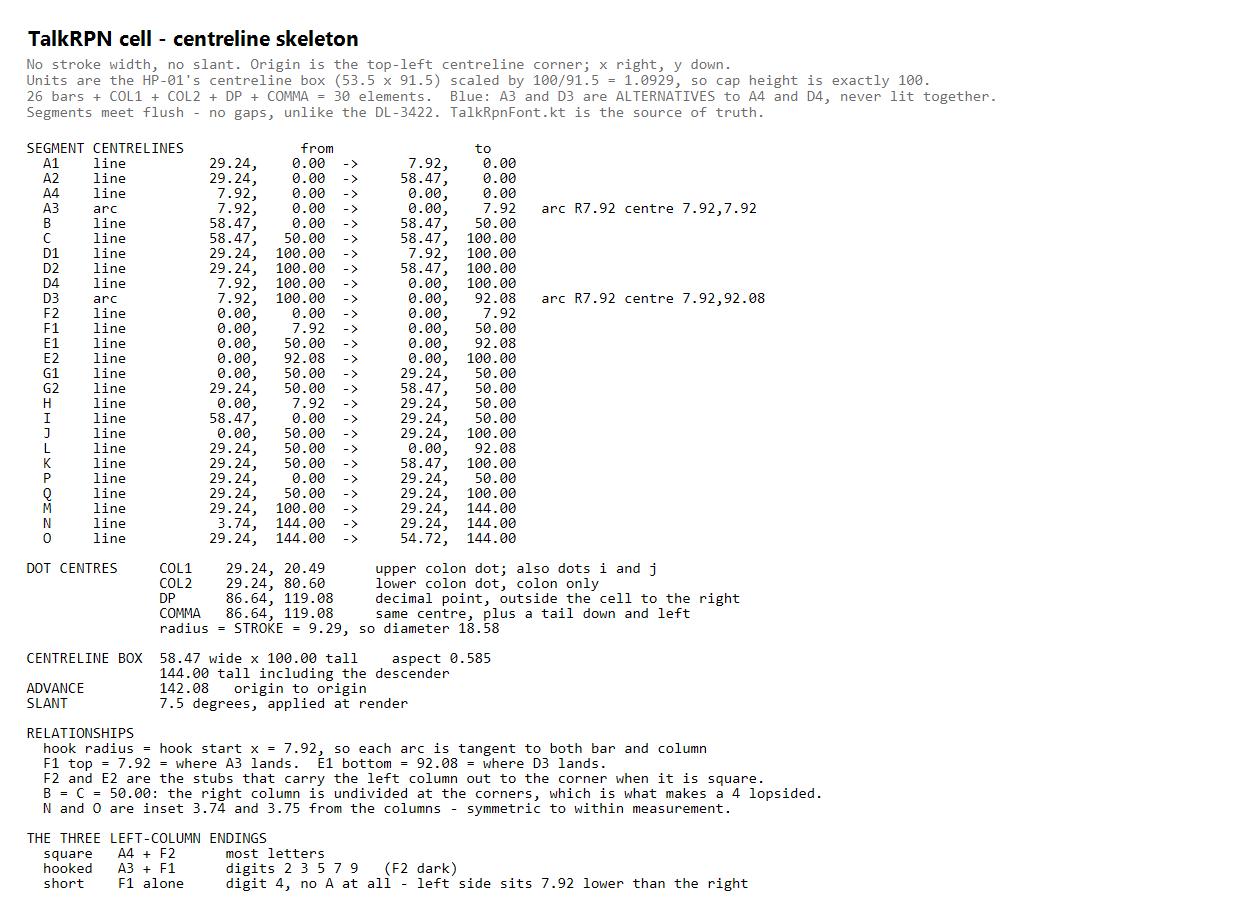
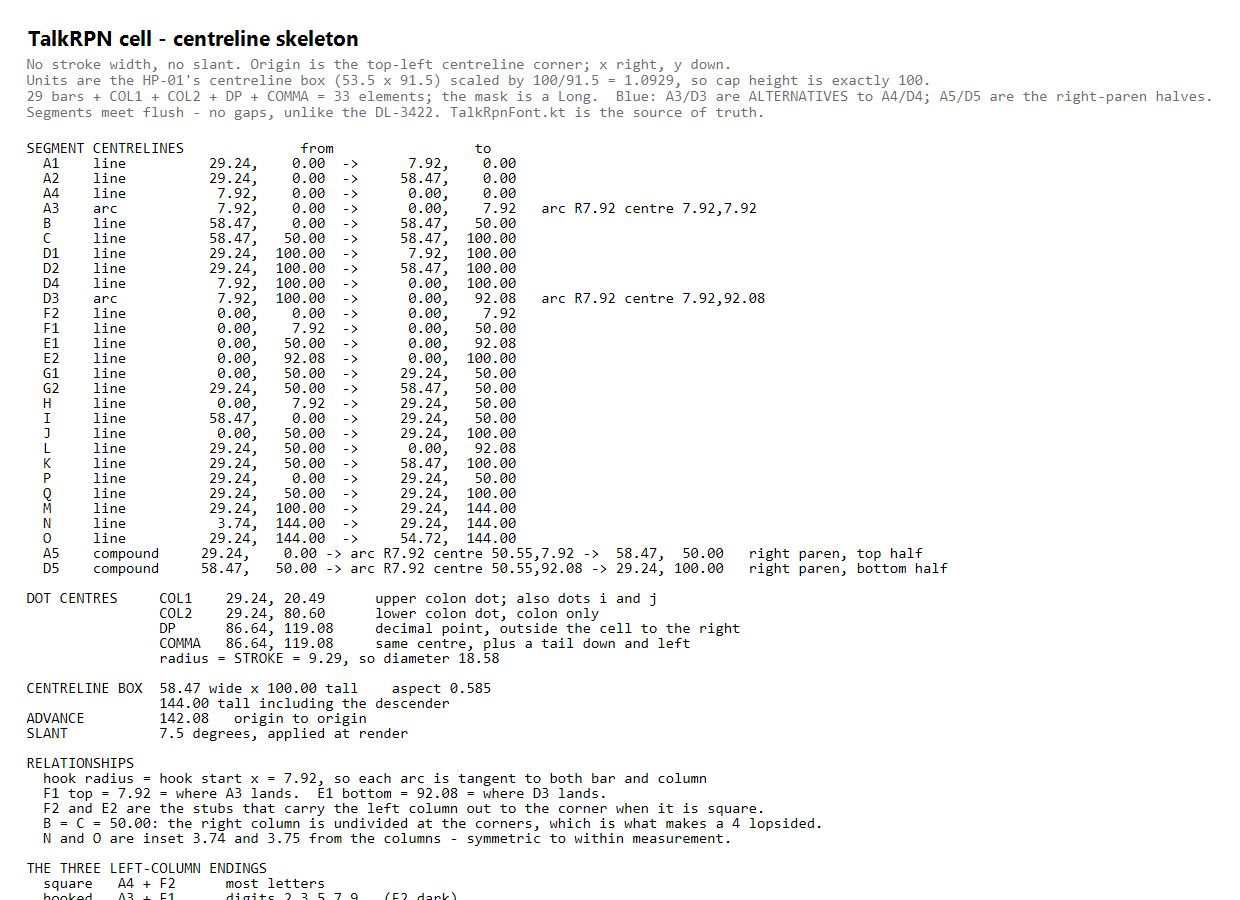
Curved parentheses on both sides, and the mask becomes a Long
The rounded '(' looked right and the square ')' next to it looked broken, so
the pair either both curved or neither. Both, then: '(' is the left column
with both corners hooked, and ')' gets A5 and D5 - each half of the right
parenthesis bundled into one element, bar stub plus corner arc plus column
stub, because the right side has no shortened bars or columns for a bare arc
to join. Splitting A2, B, C and D2 properly would have cost six elements;
bundling costs two, and loses nothing while ')' is their only user.

That makes 33 elements, so the mask crosses from Int to Long. Deliberate: the
rule stands that new elements are bought for legibility failures only, and a
mismatched pair of parens is a legibility failure.

The character sheet in the reference PDF is now ONE landscape page, 16 glyphs
per row in code-point order 0x20-0x7E - the traditional ASCII chart layout -
in place of the old two portrait pages of nine per row.

Also clarify the descender note in DESIGN.md: it is segment M that is too
tall, not the letter M. It drops 44 units against a 50-unit x-height, so
g q y j plunge nearly as deep as their bowls are tall.

Comma taper: decided, keep the constant-width tail. More period-correct,
though the real LED calculators drew no commas at all.

The PDF mirror script also gets rewritten whole rather than patched: the
semicolon edits had silently vanished from it - Google Drive sync appears to
have reverted the file - so patching on top of an unverified base was no
[…]

diff --git a/app/src/main/java/com/nerdfever/talkrpn/TalkRpnFont.kt b/app/src/main/java/com/nerdfever/talkrpn/TalkRpnFont.kt
@@ -1,4 +1,4 @@
-package com.nerdfever.talkrpn
+package com.nerdfever.talkrpn
 
 import androidx.compose.ui.geometry.Offset
 import androidx.compose.ui.graphics.Color
@@ -131,6 +131,15 @@ object TalkRpnFont {
     /** Where each horizontal bar's straight run ends and its hook begins. */
     private const val X_HOOK_START = HOOK_R            // 7.92
 
+    /** The mirror point on the right, where the parenthesis arcs turn. */
+    private const val X_HOOK_END_R = CELL_WIDTH - HOOK_R   // 50.55
+
+    /**
+     * Control-point offset for a quarter-circle as one cubic Bezier:
+     * (4/3)tan(pi/8) x radius. Exact to within 0.02%.
+     */
+    private val HOOK_K = (4.0 / 3.0 * tan(Math.PI / 8.0)).toFloat() * HOOK_R
+
     /** The descender bar is inset from the columns, symmetrically. */
     private const val X_N_LEFT = 3.74f
     private const val X_O_RIGHT = 54.72f
@@ -173,14 +182,21 @@ object TalkRpnFont {
     // ---- Segment identity ---------------------------------------------------
 
     /**
-     * 31 elements, so the mask needs 31 bits. An Int has 32, which still fits -
-     * but there is room for exactly one more, so nothing else may be packed in
-     * and any further addition needs a Long.
+     * 33 elements, so the mask is a Long. It was an Int until the parentheses:
+     * A5 and D5 were elements 32 and 33, and crossing that line was a deliberate
+     * decision (see DESIGN.md), not drift.
+     *
+     * A5 and D5 are the right-hand parenthesis halves. Each bundles a bar stub,
+     * the corner arc and a column stub into ONE element, because the right side
+     * has no shortened bars or columns for a bare arc to join - A2, B, C and D2
+     * all run square into the corner. Splitting them properly would cost six
+     * elements; bundling costs two, and loses nothing while ')' is the only
+     * user.
      */
     enum class Seg {
-        A1, A2, A3, A4,
+        A1, A2, A3, A4, A5,
         B, C,
-        D1, D2, D3, D4,
+        D1, D2, D3, D4, D5,
         E1, E2, F1, F2,
         G1, G2,
         H, I, J, K, L,
@@ -188,11 +204,11 @@ object TalkRpnFont {
         P, Q,
         COL1, COL2, COL2_TAIL, DP, COMMA;
 
-        val bit: Int get() = 1 shl ordinal
+        val bit: Long get() = 1L shl ordinal
     }
 
     /** Every segment lit - the display self-test, and what to draw to check geometry. */
-    val ALL_SEGMENTS: Int = Seg.entries.fold(0) { acc, s -> acc or s.bit }
+    val ALL_SEGMENTS: Long = Seg.entries.fold(0L) { acc, s -> acc or s.bit }
 
     /**
      * The cell's own boundary, for diagnosing layout.
@@ -322,6 +338,30 @@ object TalkRpnFont {
         Seg.P to line(X_MID, Y_TOP, X_MID, Y_MID),
         Seg.Q to line(X_MID, Y_MID, X_MID, Y_BASE),
 
+        // The right-hand parenthesis halves: bar stub from the centre, corner
+        // arc, column stub to the middle. One continuous figure each, so the
+        // curve joins its straights without seams.
+        Seg.A5 to path {
+            moveToCell(X_MID, Y_TOP)
+            lineToCell(X_HOOK_END_R, Y_TOP)
+            cubicToCell(
+                X_HOOK_END_R + HOOK_K, Y_TOP,
+                X_RIGHT, Y_F_TOP - HOOK_K,
+                X_RIGHT, Y_F_TOP
+            )
+            lineToCell(X_RIGHT, Y_MID)
+        },
+        Seg.D5 to path {
+            moveToCell(X_RIGHT, Y_MID)
+            lineToCell(X_RIGHT, Y_E_BOTTOM)
+            cubicToCell(
+                X_RIGHT, Y_E_BOTTOM + HOOK_K,
+                X_HOOK_END_R + HOOK_K, Y_BASE,
+                X_HOOK_END_R, Y_BASE
+            )
+            lineToCell(X_MID, Y_BASE)
+        },
+
         // The semicolon's tail.
         //
         // A semicolon is a colon whose lower dot grew a tail, so that is exactly
@@ -375,13 +415,13 @@ object TalkRpnFont {
      * TOTAL_HEIGHT - CELL_HEIGHT below it for the descender.
      */
     fun DrawScope.drawTalkRpnCell(
-        mask: Int,
+        mask: Long,
         origin: Offset,
         cellHeight: Float,
         color: Color,
         strokeWidth: Float = STROKE
     ) {
-        if (mask == 0) return
+        if (mask == 0L) return
 
         val scale = cellHeight / CELL_HEIGHT
 
@@ -401,12 +441,12 @@ object TalkRpnFont {
             val lit = Path()
 
             for ((seg, p) in PATHS) {
-                if (mask and seg.bit == 0) continue
+                if (mask and seg.bit == 0L) continue
                 lit.addPath(p)
             }
 
             // The comma's tail is a bar like any other, so it joins the union.
-            if (mask and Seg.COMMA.bit != 0) lit.addPath(COMMA_TAIL)
+            if (mask and Seg.COMMA.bit != 0L) lit.addPath(COMMA_TAIL)
 
             if (!lit.isEmpty) {
 
@@ -418,9 +458,10 @@ object TalkRpnFont {
             // Dots are filled, not stroked, and never overlap a bar, so they are
             // safe to draw separately.
             for ((seg, centre) in DOT_CENTRES) {
-                if (mask and seg.bit == 0) continue
+                if (mask and seg.bit == 0L) continue
                 drawCircle(color, strokeWidth, centre)
             }
         }
     }
 }
+

diff --git a/app/src/main/java/com/nerdfever/talkrpn/TalkRpnGlyphs.kt b/app/src/main/java/com/nerdfever/talkrpn/TalkRpnGlyphs.kt
@@ -1,4 +1,4 @@
-package com.nerdfever.talkrpn
+package com.nerdfever.talkrpn
 
 import com.nerdfever.talkrpn.TalkRpnFont.Seg
 
@@ -38,7 +38,7 @@ object TalkRpnGlyphs {
 
     // ---- Combinations, so the table below reads as shapes not bit soup -----
 
-    private fun m(vararg s: Seg) = s.fold(0) { acc, seg -> acc or seg.bit }
+    private fun m(vararg s: Seg) = s.fold(0L) { acc, seg -> acc or seg.bit }
 
     // Dave's shorthand when dictating corrections, and what it means here:
     //
@@ -86,9 +86,9 @@ object TalkRpnGlyphs {
 
     // ---- The table ----------------------------------------------------------
 
-    private val GLYPHS: Map<Char, Int> = mapOf(
+    private val GLYPHS: Map<Char, Long> = mapOf(
 
-        ' ' to 0,
+        ' ' to 0L,
 
         // ---- Digits ---------------------------------------------------------
         //
@@ -260,17 +260,16 @@ object TalkRpnGlyphs {
         // Two upper verticals of equal length: F and P.
         '"' to (UL or m(Seg.P)),
 
-        // Parentheses: the centre column with bars pointing the way the paren
-        // opens. Brackets take the outer columns.
+        // Parentheses, both properly curved - the pair that pushed the mask
+        // past an Int.
         //
-        // A rounded '(' was tried and reverted. Hooking both its corners did
-        // distinguish it from '[' - round against square, the real typographic
-        // difference - but there is no hook on the right, so ')' could not
-        // mirror it, and a mismatched pair looks far worse than a pair that
-        // merely resembles brackets. Making the right corners roundable is not a
-        // small change either: see the note in DESIGN.md.
-        '(' to m(Seg.A2, Seg.P, Seg.Q, Seg.D2),
-        ')' to m(Seg.A1, Seg.P, Seg.Q, Seg.D1),
+        // '(' is the left column with both corners hooked: round where '[' is
+        // square, which is the real typographic difference between them. ')'
+        // could not mirror it with what existed - the right side has no hooks -
+        // so A5 and D5 were added, each half of the right parenthesis in one
+        // piece. A mismatched pair had already been tried and looked broken.
+        '(' to m(Seg.A1, Seg.A3, Seg.F1, Seg.E1, Seg.D3, Seg.D1),
+        ')' to m(Seg.A5, Seg.D5),
         '[' to (TOP_LEFT or UL or LL or BOT_LEFT),
         ']' to (m(Seg.A2) or UR or LR or m(Seg.D2)),
         '{' to m(Seg.A2, Seg.P, Seg.G1, Seg.Q, Seg.D2),
@@ -314,7 +313,7 @@ object TalkRpnGlyphs {
     )
 
     /** Segment mask for a character, or null if this font has no glyph for it. */
-    fun maskFor(ch: Char): Int? = GLYPHS[ch]
+    fun maskFor(ch: Char): Long? = GLYPHS[ch]
 
     /** True if every character in [text] can be rendered. */
     fun canRender(text: String) = text.all { GLYPHS.containsKey(it) }
@@ -325,6 +324,8 @@ object TalkRpnGlyphs {
     /** The segment names lit for [ch], for review listings. */
     fun segmentNames(ch: Char): List<String> {
         val mask = GLYPHS[ch] ?: return emptyList()
-        return Seg.entries.filter { mask and it.bit != 0 }.map { it.name }
+        return Seg.entries.filter { mask and it.bit != 0L }.map { it.name }
     }
 }
+
+

diff --git a/app/src/main/java/com/nerdfever/talkrpn/FontTestActivity.kt b/app/src/main/java/com/nerdfever/talkrpn/FontTestActivity.kt
@@ -470,7 +470,7 @@ private fun CharacterGrid(page: Int, sizeIndex: Int, stroke: Float, showBounds: 
 @Composable
 private fun GlyphCell(ch: Char, cellHeightPx: Float, stroke: Float, showBounds: Boolean) {
 
-    val mask = TalkRpnGlyphs.maskFor(ch) ?: 0
+    val mask = TalkRpnGlyphs.maskFor(ch) ?: 0L
     val density = LocalDensity.current.density
 
     val scale = cellHeightPx / TalkRpnFont.CELL_HEIGHT
@@ -575,6 +575,7 @@ private fun CompactControl(label: String, modifier: Modifier = Modifier, onClick
         Text(label, color = LABEL, fontSize = TEXT_BUTTON)
     }
 }
+
 
 
 

diff --git a/DESIGN.md b/DESIGN.md
@@ -725,13 +725,13 @@ Divergences from the DL-3422, all deliberate:
 | **Horizontal placement** | Half-width glyphs sit in different halves of the cell — digits and most lower case on the left, `p` on the right, `i j l` in the centre. At a fixed pitch that reads as uneven spacing even though the pitch is exact. Needs one rule, applied throughout. |
 | **`I` and `L` to the corners** | Both stop short of the cell corner; extending them would close the diagonals against the columns. |
 | ~~Semicolon~~ | **Done.** `COL2_TAIL`, the 31st element: the comma's tail hung off the lower colon dot, so a semicolon is a colon whose lower dot grew a tail. One bit left in the `Int`. |
-| **Comma taper** | Should narrow gradually to the decimal point's size rather than being a constant-width tail. |
-| **`M` is too long** | Geometry, not mask. |
+| ~~Comma taper~~ | **Decided: keep the constant-width tail.** More period-correct — though the real LED calculators drew no commas at all. |
+| **Segment `M` (the descender stem) is too tall** | Not the letter M. It drops 44 units against a 50-unit x-height, so `g q y j` tails plunge nearly as deep as their bowls are tall. Fix = raise the descender bar: `TOTAL_HEIGHT`, N/O's y, and M's endpoint, one decision. |
 | **`P`/`Q` shift** | Both may want to move left a little; `B` and `D` are what show it. |
 | **Decimal-point position** | `DP_X` is 86.64, which is 28.17 past the right column. Fine at the authentic advance of 142.08, but it collides with the next glyph at any tighter pitch — so it is coupled to whatever pitch is finally chosen. |
 | **Stroke width** | The HP-01's 9.29 is too heavy for 26 bars. Around 5.5 reads well; not yet fixed. |
 | **`l` and `\|` are identical** | Both are `P Q`. Fine or not, but it should be a decision rather than an accident. |
-| **Parens vs brackets** | Both are the centre column with bars pointing the way they open, so a paren still resembles a bracket. Left alone: the fix needs right-hand rounding, tried and rejected. |
+| ~~Parens vs brackets~~ | **Done.** Both parens are now properly curved: `(` is the left column with both corners hooked; `)` got `A5` and `D5`, each half of the right parenthesis as one bundled element (bar stub + arc + column stub — the right side has no shortened bars for a bare arc to join). This crossed the `Int` ceiling deliberately: 33 elements, the mask is now a `Long`. What was rejected earlier was a *mismatched* pair, not curvature. |
 | **Not yet wired in** | `DisplayTestActivity` still renders with `Hp01Font`. The calculator display needs moving onto `TalkRpnFont`. |
 | **Still guessed** | `'`, `f` and `t` — the chart is ambiguous at those three. |
 | **Final LED colour** | Three candidate reds are cycled in the test screens; the choice has to be made on the watch, not the emulator. |
@@ -802,11 +802,13 @@ right"* is a fact about the segment table; *"that pair looks broken"* is a fact
 about the glyph. Reasoning carefully about the first is not a substitute for
 rendering the second and looking at it.
 
-**And we do have a hard ceiling, just a different one.** The mask is an `Int`.
-Thirty-one elements now, one spare, and 32 is the wall — past that it is a `Long` and
-every mask constant doubles. Their budget was pins; ours is bits; both land at
-about the same number. Worth deciding what those last two bits buy before
-spending them.
+**The `Int` ceiling was crossed on 2026-08-07, deliberately, for the parens.**
+The mask is now a `Long`: 33 elements, 31 bits spare. The earlier framing —
+"their budget was pins, ours is bits, both land at about the same number" —
+stays true in spirit: the discipline of paying for each element is what keeps
+the kit legible, and the rule for spending stands (legibility failures yes,
+fidelity failures no). The parens qualified: an unmatched pair is a legibility
+failure, and `A5`/`D5` were the cheapest matched fix.
 
 ### The cell outline might be a feature, not just a tool
 
